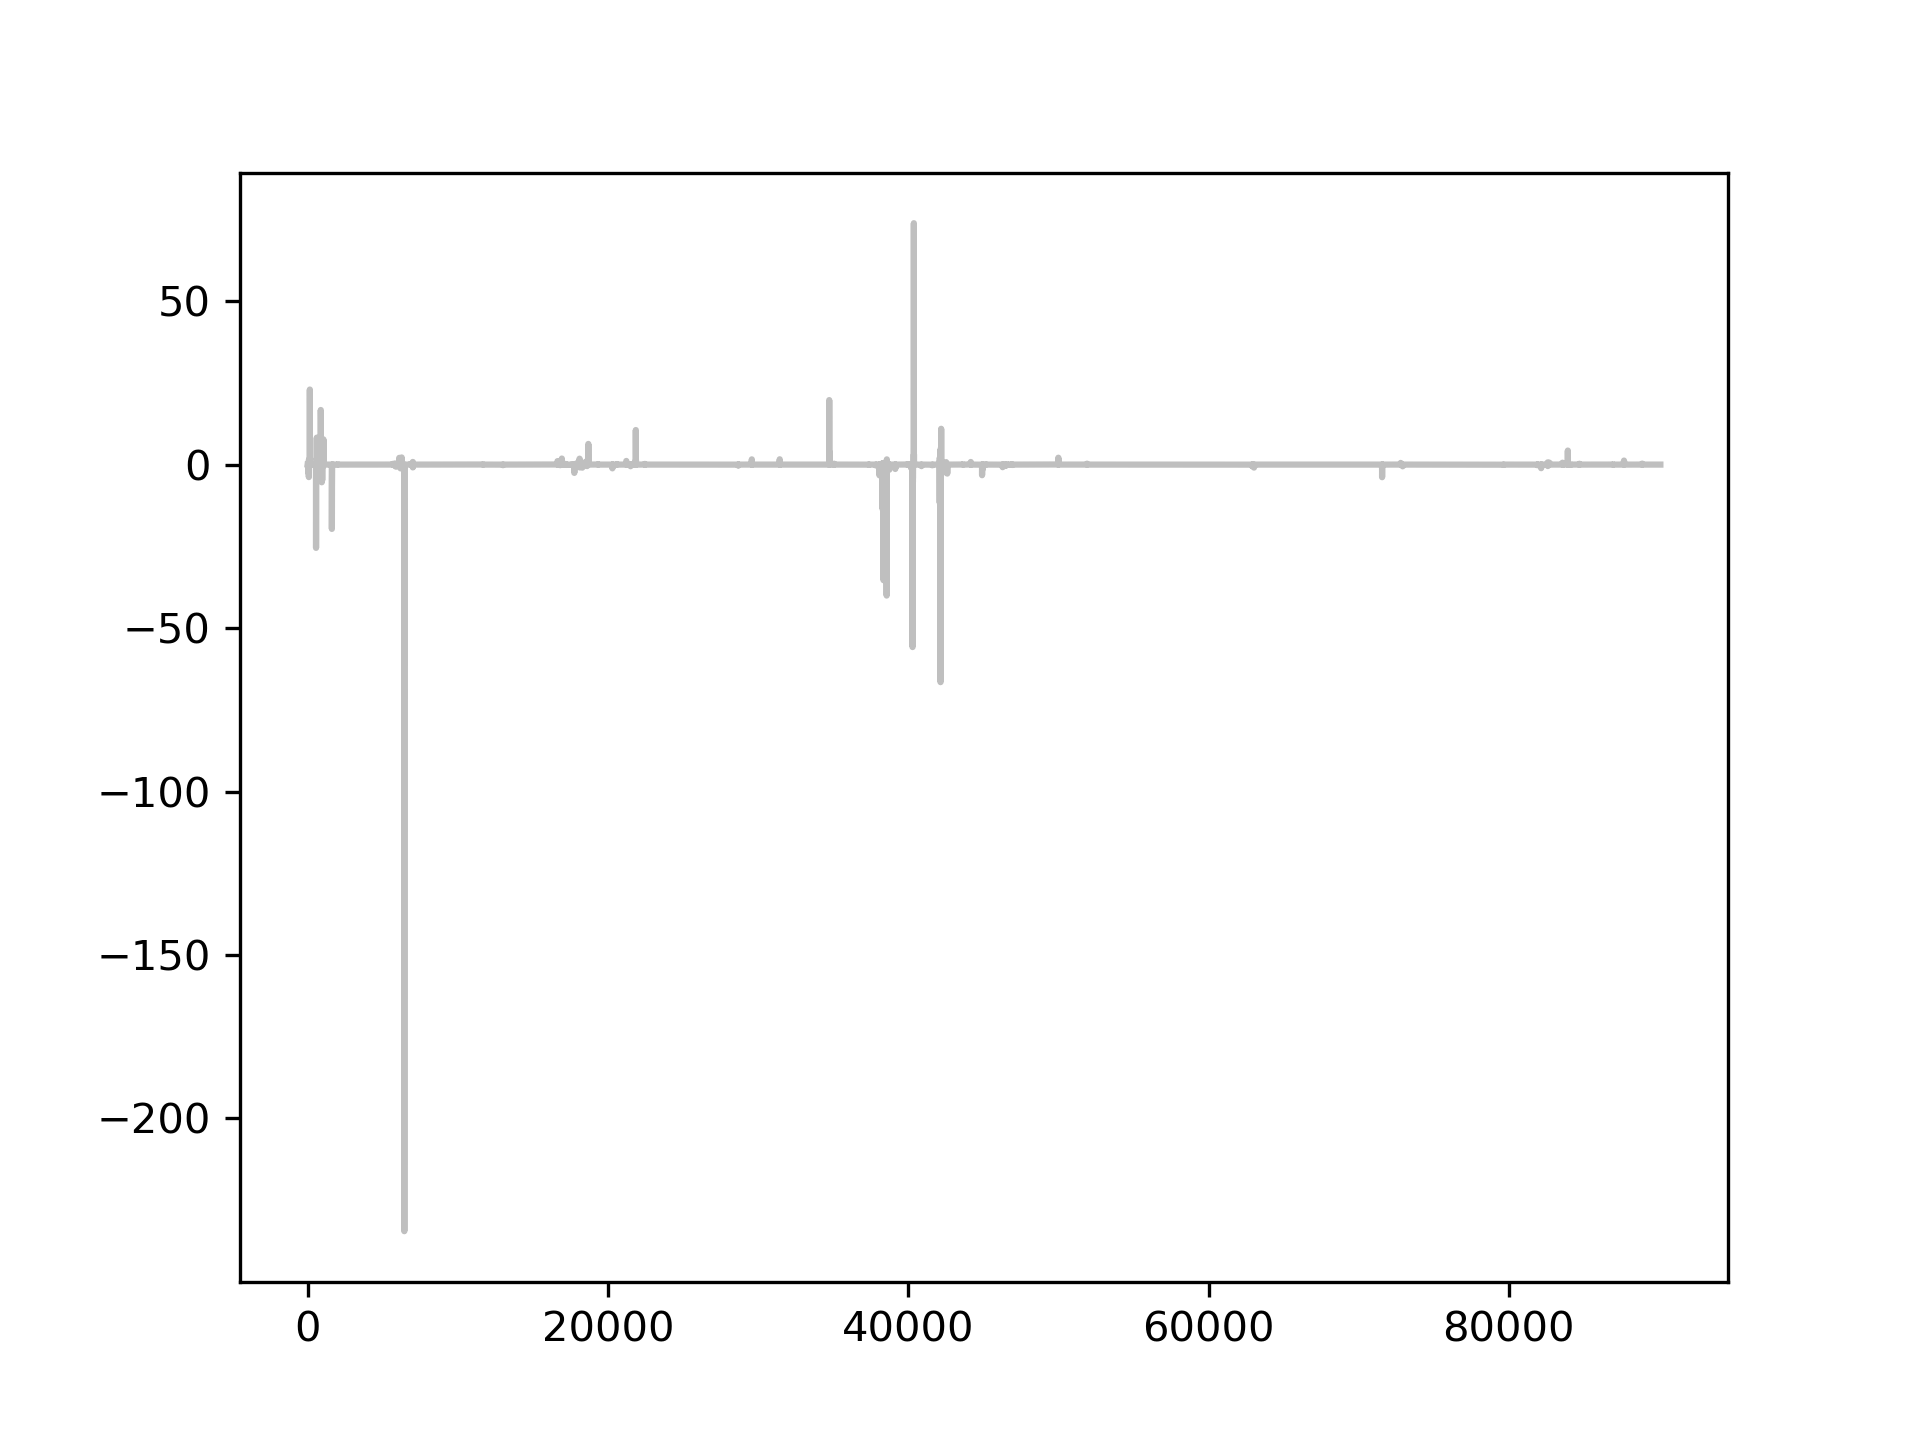
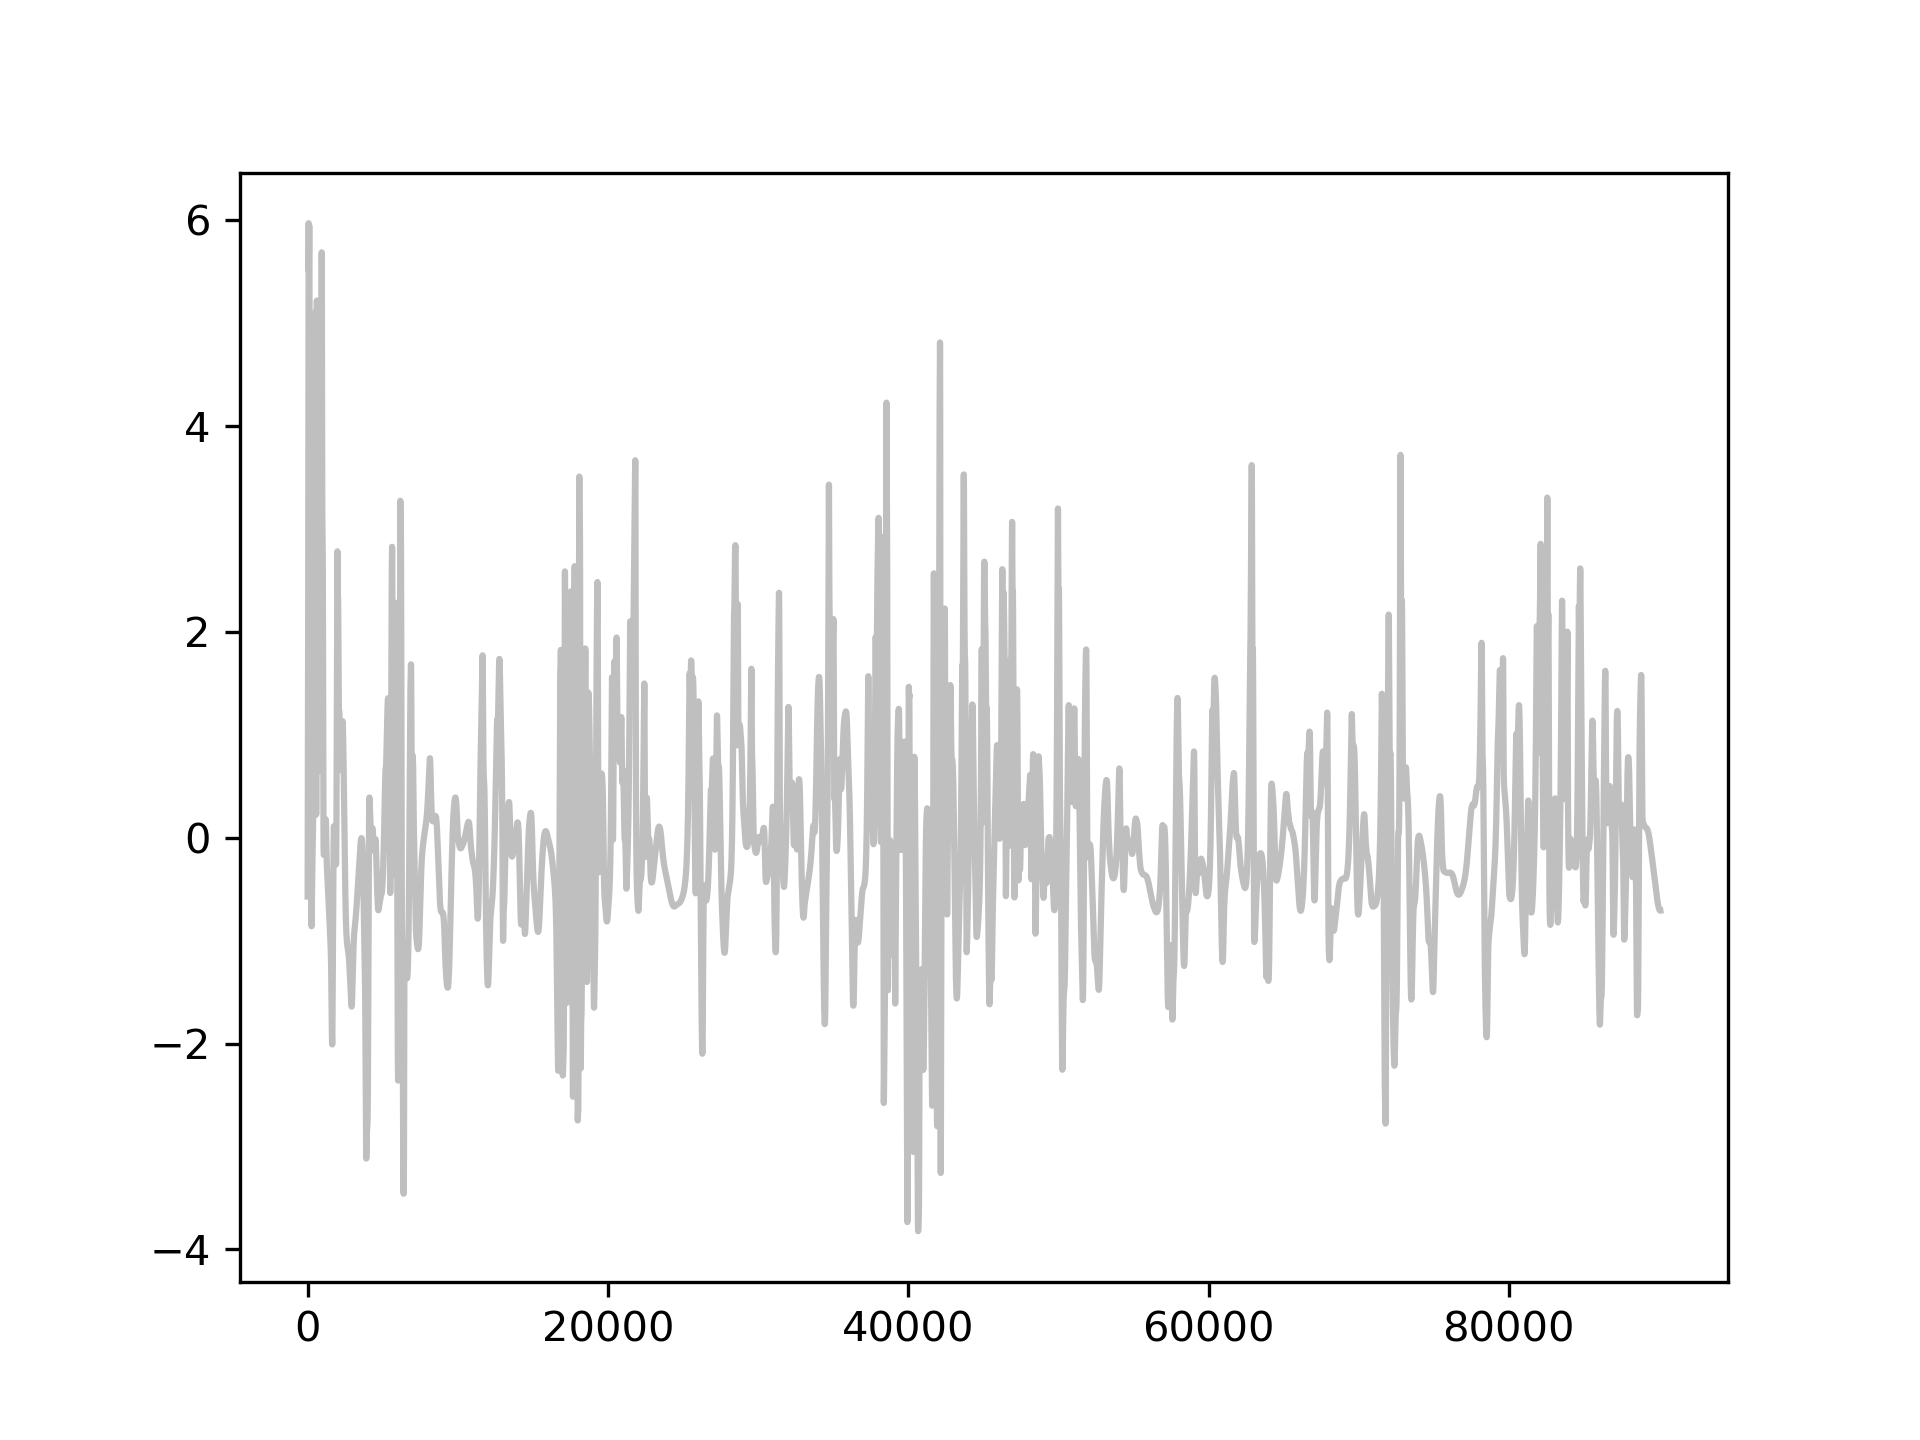
fin integration AB2

diff --git a/KF/enKF.py b/KF/enKF.py
@@ -25,18 +25,18 @@ def filter_mode(X,mode_min:int,mode_max:int,t_min:int,ratio:float,seed):
     for j in range(mode_min,mode_max):
         for i in range(t_min,nb_line):
             if (np.random.random()<=ratio):
-                X_filtered[i,j] = X_subset[i,j] #+ np.random.normal(0,1) 
+                X_filtered[i,j] =  X_subset[i,j] #+ np.random.normal(0,1) 
                 X_posx.append(j)
                 X_posy.append(i)
-                X_value.append(np.random.normal(0,1) + (X_subset[i,j]-mean_mode[j])/std_mode[j]) # centré réduit
+                X_value.append( (X_subset[i,j]-mean_mode[j])/std_mode[j]) # centré réduit
 
             else:
                 X_filtered[i,j] = None
     
-    
-    Y = np.zeros((nb_line,nb_column))
-    Y[:,:] = None
-    Y[X_posy,X_posx] =  X_value #X_filtered[X_posy,X_posx] # on ajoute du bruit gaussien aux observations
+    X_filtered[:,2*k_max_collocation:] = None
+    # Y = np.zeros((nb_line,nb_column))
+    # Y[:,:] = None
+    # Y[X_posy,X_posx] =  X_value #X_filtered[X_posy,X_posx] # on ajoute du bruit gaussien aux observations
 
     pourcentage_filtered = nb_line*ratio/nb_line*100
     X_dataset.append(X_posx)
@@ -44,7 +44,7 @@ def filter_mode(X,mode_min:int,mode_max:int,t_min:int,ratio:float,seed):
     X_dataset.append(X_value)
 
 
-    return X_filtered,X_dataset,mean_mode,var_mode,std_mode,pourcentage_filtered,Y
+    return X_filtered,X_dataset,mean_mode,var_mode,std_mode,pourcentage_filtered#,Y
 
 
 def reduced_center(X,mean,std):
@@ -90,19 +90,20 @@ k_bc_max = 4
 k0 = 0.125
 lmb = 2.0
 # retourne un dataset pour plot , var,std,et mean pour chaque mode et les colocation point centré réduit
-Data_filtered, Data_train, mean, Var_mode, Std_mode, perc, Y = filter_mode(Data_shell,2*k_min_collocation,2*k_max_collocation,0,0.001,123456)
+Data_filtered, Data_train, mean, Var_mode, Std_mode, perc= filter_mode(Data_shell,2*k_min_collocation,2*k_max_collocation,0,0.001,123456)
 Data_shell = reduced_center(Data_shell,mean=mean,std=Std_mode)
+Data_filtered = reduced_center(Data_filtered,mean=mean,std=Std_mode)
 
 K = np.array([k0*lmb**i for i in range(22)],dtype=np.float32)
 
-y_obs = Y.T
+y_obs = Data_filtered.T + np.random.normal(0,1,size=(44,90090)) #noisy observations
 
 
-# for i in range(np.shape(y)[0]):
-#     plt.figure()
-#     plt.plot(y[i,:],'*')
-#     plt.plot(Data_shell[:,i],'gray',alpha=0.5)
-#     plt.savefig(PATH + "ploty",dpi=300)
+for i in range(np.shape(y_obs)[0]):
+    plt.figure()
+    plt.plot(y_obs[i,:],'*')
+    plt.plot(Data_shell[:,i],'gray',alpha=0.5)
+    plt.savefig(PATH + "ploty",dpi=300)
 
 
 
@@ -115,7 +116,7 @@ time  = np.array(range(nb)) # time vector
 var_Q = 0.1 # error variance of the model (in Kalman)
 var_R = 1 # error variance of the observations (in Kalman)
 x_0   = np.zeros((n)) # initial coundition (mean)
-P_0   = np.eye(n,n) # initial coundition (covariance)
+P_0   = np.eye(n,n)*1.e-4 # initial coundition (covariance)
 
 ### variables
 Q      = var_Q*np.eye(n,n)
@@ -187,7 +188,7 @@ def m(x_past):
     nu = 1.0e-7
     fs = 100
     time_end = 1.0e-2
-    integration.GOYParams(force=force,N_force=4,
+    param = integration.GOYParams(force=force,N_force=4,
                           force_rnd=force_rnd,k0=k0,lmb=lmb,
                           eps=eps,nu=nu,N=22,dt=dT,fs=100,time=time_end)
 
@@ -196,27 +197,35 @@ def m(x_past):
 
     x_future_real = np.copy(x_past[0::2,1]) # Un Reels
     x_future_imag = np.copy(x_past[1::2,1]) # Un Imagin
+    integrate = integration.GOYShellModel(params=param,Xpp=x_past_real,Ypp=x_past_imag,Xp=x_future_real,Yp=x_future_imag)
+    X,Y = integrate.run()
+    # n = np.shape(x_past_real)[0]
 
-    n = np.shape(x_past_real)[0]
-
-    NL_re_pp, NL_im_pp = NL(x_past_real,x_past_imag)
-    NL_re_p, NL_im_p = NL(x_future_real,x_future_imag)
+    # NL_re_pp, NL_im_pp = NL(x_past_real,x_past_imag)
+    # NL_re_p, NL_im_p = NL(x_future_real,x_future_imag)
     
-    x_future = np.zeros((2*n,2))
-    x_future[:,0] = x_past[:,1] # x(t-1) => x(t)
-    x_future_r = np.zeros(n)
-    x_future_i = np.zeros(n)
-    for i in range(n):
-        if i!=3:
-            x_future_i[i] = np.exp(-nu*(K[i]**2)*dT)*(x_future_imag[i] + dT*((3/2)*NL_im_p[i] - (1/2)*NL_im_pp[i]))
-            x_future_r[i] = np.exp(-nu*(K[i]**2)*dT)*(x_future_real[i] + dT*((3/2)*NL_re_p[i] - (1/2)*NL_re_pp[i]))
+    x_future = np.zeros((n,2))
 
-        else:
-            x_future_i[i] = np.exp(-nu*(K[i]**2)*dT)*(x_future_imag[i] + dT*((3/2)*NL_im_p[i] - (1/2)*NL_im_pp[i])) + 0.005*dT*np.random.normal(0,1) # on ajoute du bruit pour le mode 4
-            x_future_r[i] = np.exp(-nu*(K[i]**2)*dT)*(x_future_real[i] + dT*((3/2)*NL_re_p[i] - (1/2)*NL_re_pp[i])) + 0.005*dT*np.random.normal(0,1) # x1(t+1) = x1(t) + x1_dot(t)
+    x_future[0::2,0] = x_past[0::2,1]
+    x_future[1::2,0] = x_past[1::2,1]
+
+    x_future[0::2,1] = X
+    x_future[1::2,1] = Y
+
+    # x_future[:,0] = x_past[:,1] # x(t-1) => x(t)
+    # x_future_r = np.zeros(n)
+    # x_future_i = np.zeros(n)
+    # for i in range(n):
+    #     if i!=3:
+    #         x_future_i[i] = np.exp(-nu*(K[i]**2)*dT)*(x_future_imag[i] + dT*((3/2)*NL_im_p[i] - (1/2)*NL_im_pp[i]))
+    #         x_future_r[i] = np.exp(-nu*(K[i]**2)*dT)*(x_future_real[i] + dT*((3/2)*NL_re_p[i] - (1/2)*NL_re_pp[i]))
+
+    #     else:
+    #         x_future_i[i] = np.exp(-nu*(K[i]**2)*dT)*(x_future_imag[i] + dT*((3/2)*NL_im_p[i] - (1/2)*NL_im_pp[i])) + 0.005*dT*np.random.normal(0,1) # on ajoute du bruit pour le mode 4
+    #         x_future_r[i] = np.exp(-nu*(K[i]**2)*dT)*(x_future_real[i] + dT*((3/2)*NL_re_p[i] - (1/2)*NL_re_pp[i])) + 0.005*dT*np.random.normal(0,1) # x1(t+1) = x1(t) + x1_dot(t)
         
-        x_future[2*i,1] = x_future_r[i]
-        x_future[2*i+1,1] = x_future_i[i]
+    #     x_future[2*i,1] = x_future_r[i]
+    #     x_future[2*i+1,1] = x_future_i[i]
     
     return x_future
 
@@ -228,11 +237,12 @@ x_p_r,x_p_i = NL(x_past[0::2,0],x_past[1::2,0])
 x_past[0::2,1] = np.exp(-nu*K**2*1.0e-5)*(x_past[0::2,0] + 1.0e-5*x_p_r ) #np.random.normal(0,1.e-4,size=((n,2))) # state at time t-1 and t-2 for the model m
 x_past[1::2,1] = np.exp(-nu*K**2*1.0e-5)*(x_past[1::2,0] + 1.0e-5*x_p_i ) #np.random.normal(0,1.e-4,size=((n,2))) # state at time t-1 and t-2 for the model m
 
-series = np.zeros((n,100))
-series[:,0] = x_past[:,0]
-series[:,1] = x_past[:,1]
+# series = np.zeros((n,100))
+# series[:,0] = x_past[:,0]
+# series[:,1] = x_past[:,1]
 
 # for i in range(2,100):
+#     a = series[:,i-2:i]
 #     update = m(series[:,i-2:i])
 #     series[:,i] = update[:,1]
 #     #x_past = update
@@ -240,7 +250,16 @@ series[:,1] = x_past[:,1]
 # plt.figure()
 # for i in range(10):
 #     plt.plot(series[2*i,:])
-# plt.show()
+# plt.savefig("test")
+
+### Generate observations and covariance
+def generate_observations(p, H):
+    y = np.zeros((p,nb))
+    R = var_R*np.eye(p,p) # observation covariance
+    for t in range(1,nb):
+        y[:,t] = H @ y_obs[:,t] + np.random.multivariate_normal(np.zeros(p), R) # noisy observations
+    #y[:,i_nan] = y[:,i_nan]*np.nan # remove observations 
+    return y, R
 
 H = np.eye(44,44) #array([[1,0,0,0], [0,1,0,0]])
 H = H[2*k_min_collocation:2*k_max_collocation,:] # on observe que les modes de 5 à 10 avec Re et Im donc 12 variables d'observations
@@ -270,11 +289,16 @@ for k in range(1,nb): # forward in time
         y_f_enkf_tmp[:,i] = H @ x_f_enkf_tmp[:,i] + np.random.multivariate_normal(np.zeros(p), R) ### A CACHER
     P_f_enkf_tmp = np.cov(x_f_enkf_tmp) ### A CACHER
     # Kalman gain
-    K = P_f_enkf_tmp @ H.T @ np.inv(H @ P_f_enkf_tmp @ H.T + R) ### A CACHER
+    
+    K = P_f_enkf_tmp @ H.T @ np.linalg.inv(H @ P_f_enkf_tmp @ H.T + R) ### A CACHER
     # update step
-    for i in range(Ne):
-        x_a_enkf_tmp[:,i] = x_f_enkf_tmp[:,i] + K @ (y[:,k] - y_f_enkf_tmp[:,i]) ### A CACHER
-    P_a_enkf_tmp = np.cov(x_a_enkf_tmp) ### A CACHER
+    if(sum(np.isfinite(y[:,k]))>0):
+        for i in range(Ne):
+            x_a_enkf_tmp[:,i] = x_f_enkf_tmp[:,i] + K @ (y[:,k] - y_f_enkf_tmp[:,i]) ### A CACHER
+        P_a_enkf_tmp = np.cov(x_a_enkf_tmp) ### A CACHER
+    else:
+            x_a_enkf_tmp = x_f_enkf_tmp
+            P_a_enkf_tmp = P_f_enkf_tmp 
     # store results
     x_f_enkf[:,k]   = mean(x_f_enkf_tmp,1)
     P_f_enkf[:,:,k] = P_f_enkf_tmp

diff --git a/KF/integration.py b/KF/integration.py
@@ -20,12 +20,12 @@ class GOYParams:
         self.eps = eps #0.5                  # for the NL coefficients
         self.nu = nu #1.0e-7                # viscosity
         self.N = N #22                     # nb of modes
-        
+        self.DO_FIR = True
     # Scheme parameters
         self.dt = dt #1.0e-5                # for integration scheme
         self.fs = fs #100.                 # for data saving (frequency)
         self.time = time #1.0e3               # total simulation time
-    xp=None
+    xp=1
     
 class GOYShellModel:
     """The GOY shell model integrator."""
@@ -48,19 +48,19 @@ class GOYShellModel:
         self.sh = np.zeros(self.p.N)        # wave numbers
         self.X = np.zeros(self.p.N)         # real part of complex amplitude
         self.Y = np.zeros(self.p.N)         # imaginary part
-        if Xp==None:
+        if type(Xp)==type(None):
             self.Xp = np.zeros(self.p.N)        # X at previous timestep
         else:
             self.Xp = Xp
-        if Xpp==None:
+        if type(Xpp)==type(None):
             self.Xpp = np.zeros(self.p.N)       # X at two timesteps ago
         else:
             self.Xpp = Xpp
-        if Yp==None:
+        if type(Yp)==type(None):
             self.Yp = np.zeros(self.p.N)        # Y at previous timestep
         else:
             self.Yp = Yp
-        if Ypp==None:
+        if type(Ypp)==type(None):
             self.Ypp = np.zeros(self.p.N)       # Y at two timesteps ago
         else:
             self.Ypp = Ypp
@@ -257,24 +257,24 @@ class GOYShellModel:
         while count > 0:
             self.integrate()
             
-            if (count % self.N_fs) == 0:
-                # Print progress
-                remaining_steps = int(count / self.N_fs)
-                if not np.isnan(self.X[0]):
-                    print(f"Remaining steps: {remaining_steps}")
-                else:
-                    print(f"Remaining steps: {remaining_steps} : ERROR (NaN detected)")
+            # if (count % self.N_fs) == 0:
+            #     # Print progress
+            #     remaining_steps = int(count / self.N_fs)
+            #     if not np.isnan(self.X[0]):
+            #         print(f"Remaining steps: {remaining_steps}")
+            #     else:
+            #         print(f"Remaining steps: {remaining_steps} : ERROR (NaN detected)")
                 
-                # Save data
-                if self.p.DO_FIR:
-                    self.normalize_FIR(self.Xf)
-                    self.normalize_FIR(self.Yf)
+            #     # Save data
+            #     if self.p.DO_FIR:
+            #         self.normalize_FIR(self.Xf)
+            #         self.normalize_FIR(self.Yf)
                     
                  
-                    self.reset_FIR(self.Xf)
-                    self.reset_FIR(self.Yf)
+            #         self.reset_FIR(self.Xf)
+            #         self.reset_FIR(self.Yf)
             
-                self.N_steps += 1
+            #     self.N_steps += 1
             
             # Evolve fields
             self.Xpp[:] = self.Xp
